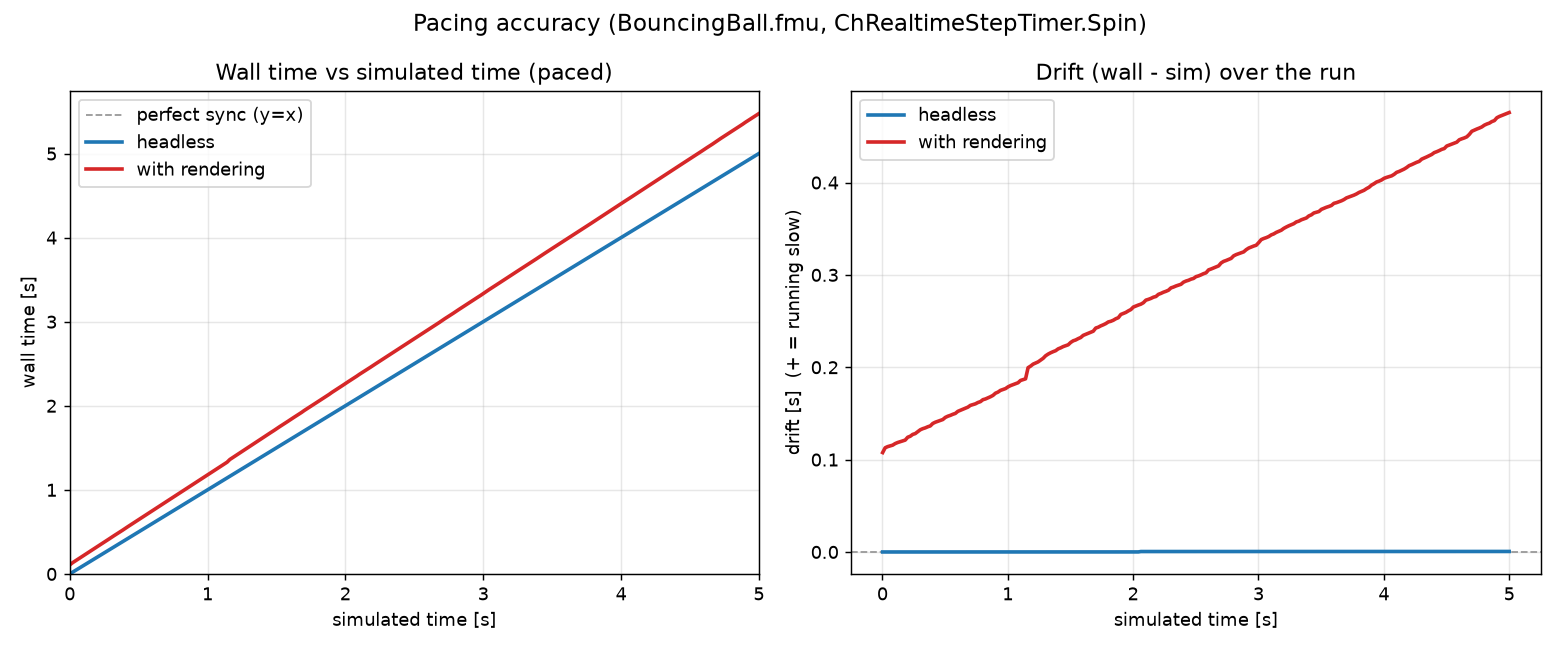
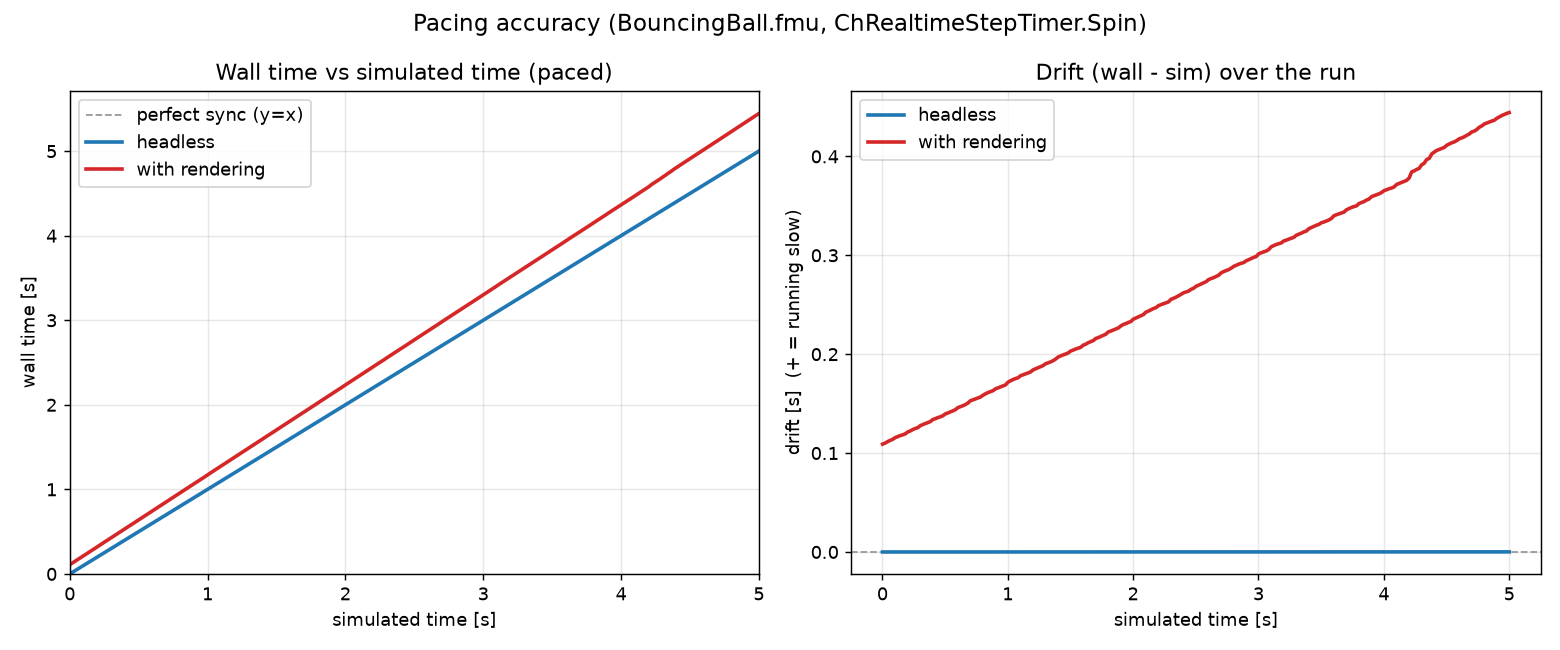
Add RT vs generic kernel jitter benchmark (rendering excluded)
This machine boots a PREEMPT_RT kernel (5.15.0-1112-realtime) with a
generic kernel (6.8.0-138-generic) also installed. benchmark_rt_jitter.py
records every single paced loop period (not just an aggregate drift
number like benchmark_realtime.py --pacing on) and reports percentiles
plus max -- the tail latency PREEMPT_RT actually targets, since a kernel
can have a fine average but rare multi-ms scheduling stalls. Results are
tagged by `uname -r` and saved to rt_results/*.json so they survive a
reboot; plot_rt_comparison.py overlays whatever's been collected so far
(works with just one kernel's data too).

Measured on the current RT kernel (target step 2000us, n=7500): p50/p95/
p99 within a few us of target, p999 +66.9us, max +1693.4us (1.85x
target), zero iterations over 2x. Comparing against the generic kernel
needs an actual reboot, which this session does not (and should not) do
itself -- documented in the README as a manual step for the user.

Claude-Session: https://claude.ai/code/session_01UULNnKKARJpjHeGbdgzYdT

diff --git a/fmu/benchmark_rt_jitter.py b/fmu/benchmark_rt_jitter.py
@@ -1,0 +1,130 @@
+"""
+Measure scheduling jitter of the paced (ChRealtimeStepTimer.Spin) headless
+FMU loop -- what an RT (PREEMPT_RT) kernel is actually supposed to help
+with, as opposed to the systematic rendering-induced drift found in
+benchmark_realtime.py. Rendering is deliberately excluded (dynamics-only),
+per the request that started this script.
+
+Where benchmark_realtime.py's --pacing on reports one aggregate drift
+number, this records every single loop period (time between consecutive
+iterations) and reports percentiles/outliers -- the standard way
+scheduling latency is characterized (cf. cyclictest), because a kernel
+can have a fine *average* but a bad tail (rare multi-ms scheduling
+stalls), which is exactly what PREEMPT_RT targets.
+
+Results are tagged with `uname -r` and saved as JSON under rt_results/,
+so you can run this once now (whichever kernel you're on), reboot into
+the other kernel, run it again, and then compare both with
+plot_rt_comparison.py -- across a reboot, so nothing here keeps a live
+process running or does the reboot itself.
+
+Run:
+    python benchmark_rt_jitter.py                  # ~10s, saves rt_results/<kernel>.json
+    python benchmark_rt_jitter.py --sim-time 20
+"""
+import argparse
+import json
+import os
+import platform
+import time
+
+from fmpy import read_model_description, extract
+from fmpy.fmi2 import FMU2Slave
+
+DEFAULT_FMU = os.path.join(os.path.dirname(__file__), "build", "BouncingBall.fmu")
+RESULTS_DIR = os.path.join(os.path.dirname(__file__), "rt_results")
+
+
+def make_fmu_instance(fmu_path):
+    model_description = read_model_description(fmu_path)
+    value_refs = {v.name: v.valueReference for v in model_description.modelVariables}
+    unzip_dir = extract(fmu_path)
+    fmu = FMU2Slave(
+        guid=model_description.guid,
+        unzipDirectory=unzip_dir,
+        modelIdentifier=model_description.coSimulation.modelIdentifier,
+        instanceName="rt_jitter_instance",
+    )
+    fmu.instantiate()
+    fmu.setupExperiment(startTime=0.0)
+    fmu.enterInitializationMode()
+    fmu.exitInitializationMode()
+    return fmu, value_refs
+
+
+def percentile(sorted_vals, p):
+    idx = min(int(len(sorted_vals) * p), len(sorted_vals) - 1)
+    return sorted_vals[idx]
+
+
+def main():
+    parser = argparse.ArgumentParser()
+    parser.add_argument("--fmu", default=DEFAULT_FMU)
+    parser.add_argument("--sim-time", type=float, default=10.0)
+    parser.add_argument("--step-size", type=float, default=2e-3)
+    parser.add_argument("--label", default=None,
+                         help="override the auto-detected kernel label used for the output filename")
+    args = parser.parse_args()
+
+    if not os.path.exists(args.fmu):
+        raise SystemExit(f"{args.fmu} not found -- build it first with pythonfmu build")
+
+    import pychrono as chrono
+    fmu, vr = make_fmu_instance(args.fmu)
+    realtime_timer = chrono.ChRealtimeStepTimer()
+
+    n_steps = int(args.sim_time / args.step_size)
+    periods = []  # wall time between the start of consecutive iterations
+
+    prev = time.perf_counter()
+    t = 0.0
+    for _ in range(n_steps):
+        fmu.doStep(currentCommunicationPoint=t, communicationStepSize=args.step_size)
+        t += args.step_size
+        fmu.getReal([vr["h"]])
+        realtime_timer.Spin(args.step_size)
+        now = time.perf_counter()
+        periods.append(now - prev)
+        prev = now
+
+    fmu.terminate()
+    fmu.freeInstance()
+
+    periods_sorted = sorted(periods)
+    target = args.step_size
+    stats = {
+        "kernel": args.label or platform.uname().release,
+        "is_realtime_kernel": os.path.exists("/sys/kernel/realtime"),
+        "step_size": target,
+        "n_samples": len(periods),
+        "mean": sum(periods) / len(periods),
+        "min": periods_sorted[0],
+        "max": periods_sorted[-1],
+        "p50": percentile(periods_sorted, 0.50),
+        "p95": percentile(periods_sorted, 0.95),
+        "p99": percentile(periods_sorted, 0.99),
+        "p999": percentile(periods_sorted, 0.999),
+        "periods": periods,  # full trace, for histogram plotting
+    }
+
+    print(f"kernel: {stats['kernel']}  (PREEMPT_RT: {stats['is_realtime_kernel']})")
+    print(f"target loop period: {target * 1e6:.0f} us   n={stats['n_samples']}")
+    for k in ("mean", "min", "p50", "p95", "p99", "p999", "max"):
+        dev = (stats[k] - target) * 1e6
+        print(f"  {k:>5}: {stats[k] * 1e6:8.1f} us   (target +{dev:+.1f} us)")
+
+    n_over_2x = sum(1 for p in periods if p > 2 * target)
+    n_over_5x = sum(1 for p in periods if p > 5 * target)
+    print(f"  iterations > 2x target: {n_over_2x} ({100 * n_over_2x / len(periods):.3f}%)")
+    print(f"  iterations > 5x target: {n_over_5x} ({100 * n_over_5x / len(periods):.3f}%)")
+
+    os.makedirs(RESULTS_DIR, exist_ok=True)
+    safe_label = stats["kernel"].replace("/", "_")
+    out_path = os.path.join(RESULTS_DIR, f"{safe_label}.json")
+    with open(out_path, "w") as f:
+        json.dump(stats, f)
+    print(f"\nSaved {out_path}")
+
+
+if __name__ == "__main__":
+    main()

diff --git a/fmu/plot_rt_comparison.py b/fmu/plot_rt_comparison.py
@@ -1,0 +1,77 @@
+"""
+Plot every rt_results/*.json produced by benchmark_rt_jitter.py together --
+one histogram of loop-period jitter per kernel, so an RT (PREEMPT_RT) vs
+generic kernel run can be compared at a glance once both exist.
+
+Works with just one result file too (run it again after collecting a
+second kernel's data to get the comparison).
+
+Run:
+    python plot_rt_comparison.py
+"""
+import glob
+import json
+import os
+
+import matplotlib.pyplot as plt
+
+RESULTS_DIR = os.path.join(os.path.dirname(__file__), "rt_results")
+COLORS = ["tab:blue", "tab:red", "tab:green", "tab:orange"]
+
+
+def main():
+    paths = sorted(glob.glob(os.path.join(RESULTS_DIR, "*.json")))
+    if not paths:
+        raise SystemExit(f"No results in {RESULTS_DIR} -- run benchmark_rt_jitter.py first")
+
+    results = []
+    for p in paths:
+        with open(p) as f:
+            results.append(json.load(f))
+
+    fig, axes = plt.subplots(1, 2, figsize=(13, 5))
+
+    ax = axes[0]
+    for i, r in enumerate(results):
+        periods_us = [p * 1e6 for p in r["periods"]]
+        label = f"{r['kernel']}{' (RT)' if r['is_realtime_kernel'] else ' (generic)'}"
+        ax.hist(periods_us, bins=80, alpha=0.5, color=COLORS[i % len(COLORS)], label=label,
+                density=True)
+    target_us = results[0]["step_size"] * 1e6
+    ax.axvline(target_us, color="0.3", linestyle="--", linewidth=1, label=f"target ({target_us:.0f} us)")
+    ax.set_title("Loop period distribution")
+    ax.set_xlabel("period [us]")
+    ax.set_ylabel("density")
+    ax.set_yscale("log")
+    ax.legend(fontsize=8)
+    ax.grid(True, alpha=0.3)
+
+    ax = axes[1]
+    metrics = ["mean", "p50", "p95", "p99", "p999", "max"]
+    x = range(len(metrics))
+    width = 0.8 / len(results)
+    for i, r in enumerate(results):
+        offsets = [r[m] * 1e6 - r["step_size"] * 1e6 for m in metrics]
+        label = f"{r['kernel']}{' (RT)' if r['is_realtime_kernel'] else ' (generic)'}"
+        ax.bar([xi + i * width for xi in x], offsets, width=width,
+               color=COLORS[i % len(COLORS)], label=label)
+    ax.set_xticks([xi + width * (len(results) - 1) / 2 for xi in x])
+    ax.set_xticklabels(metrics)
+    ax.set_title("Deviation from target step size, by percentile")
+    ax.set_ylabel("deviation [us]  (log scale)")
+    ax.set_yscale("log")
+    ax.legend(fontsize=8)
+    ax.grid(True, alpha=0.3, axis="y")
+
+    fig.suptitle("Headless FMU loop jitter (ChRealtimeStepTimer.Spin, no rendering)", fontsize=13)
+    fig.tight_layout()
+    out_path = os.path.join(os.path.dirname(__file__), "rt_comparison.png")
+    fig.savefig(out_path, dpi=130)
+    print(f"Saved {out_path}")
+    if len(results) == 1:
+        print("Only one kernel's results found so far -- reboot into the other kernel, "
+              "run benchmark_rt_jitter.py again, then re-run this script for the comparison.")
+
+
+if __name__ == "__main__":
+    main()

diff --git a/README.md b/README.md
@@ -140,4 +140,16 @@ python plot_realtime_benchmark.py --sim-time 5
 ```
 결과(`realtime_pacing.png`): 헤드리스는 처음부터 끝까지 편차 0에 딱 붙어있고, 렌더링 포함은 시작부터 약 0.11s 앞서 벌어진 채 이후 거의 선형으로 계속 커져서 5초 뒤엔 약 0.48~0.58s 차이로 끝남 — 초반의 계단형 점프(예: t≈1.1s 부근)는 아마 첫 바운스 등 이벤트성 비용과 관련된 것으로 보임(원인 미확정).
 
+**RT 커널 vs 일반 커널 비교** (`benchmark_rt_jitter.py` + `plot_rt_comparison.py`, 렌더링 제외): 이 머신은 PREEMPT_RT 커널(`5.15.0-1112-realtime`)로 부팅돼 있고, 일반 커널(`6.8.0-138-generic`)도 같이 설치돼 있음. `benchmark_realtime.py --pacing on`이 재는 "누적 편차"와 달리, 여긴 **루프 한 스텝 한 스텝의 주기 자체를 전부 기록**해서 퍼센타일/최악값(tail latency)을 봄 — PREEMPT_RT가 실제로 개선하는 건 평균이 아니라 이런 드문 큰 지연(스케줄링 스톨)이기 때문:
+```bash
+python benchmark_rt_jitter.py --sim-time 15   # 지금 부팅된 커널 기준, rt_results/<커널명>.json 저장
+python plot_rt_comparison.py                   # rt_results/ 안의 모든 결과를 히스토그램으로 겹쳐 그림
+```
+**RT 커널 실측 결과** (스텝 목표 2000μs, n=7500): mean +0.5μs, p50 +0.0μs, p95 +1.2μs, p99 +3.2μs, p999 +66.9μs, **max +1693.4μs**(목표의 1.85배) — 2배 초과 0건. 즉 거의 대부분 목표에 딱 맞고, 아주 드물게 한 번씩 ms 단위로 튀는 정도.
+
+**일반 커널과 비교하려면** (재부팅 필요 — 반드시 직접 하실 것, 이 세션은 재부팅되면 끊김):
+1. `6.8.0-138-generic`으로 재부팅
+2. `conda activate chrono && cd ~/chrono_test/fmu && python benchmark_rt_jitter.py --sim-time 15`
+3. 다시 RT 커널로 재부팅해도 되고, 아니면 그 상태에서 `python plot_rt_comparison.py`만 실행 — `rt_results/`에 두 커널 결과가 다 쌓여있으면 자동으로 같이 그려짐(현재 코드는 이미 이 두 파일을 처리하도록 되어 있고, 지금은 RT 결과 하나만 있어서 그래프도 한 종류만 나옴)
+
 트레이드오프: 이 분리는 ROS2/Simulink 등 외부 툴과 실제로 연동할 때 값어치가 있고, 계속 이 레포 안에서만 쓸 거면 지금 구조 대비 초기 비용이 큼.
